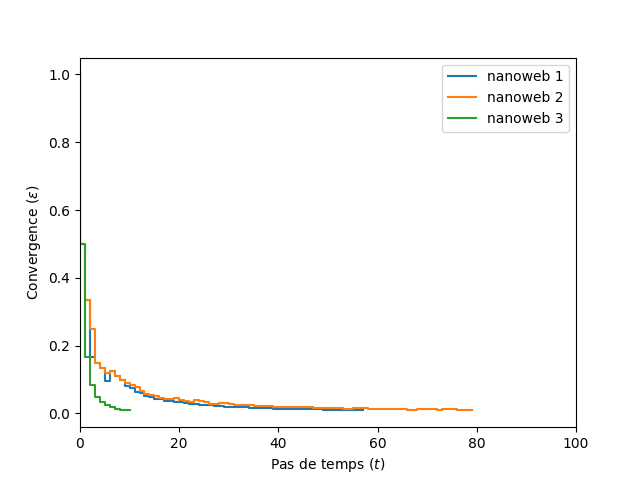
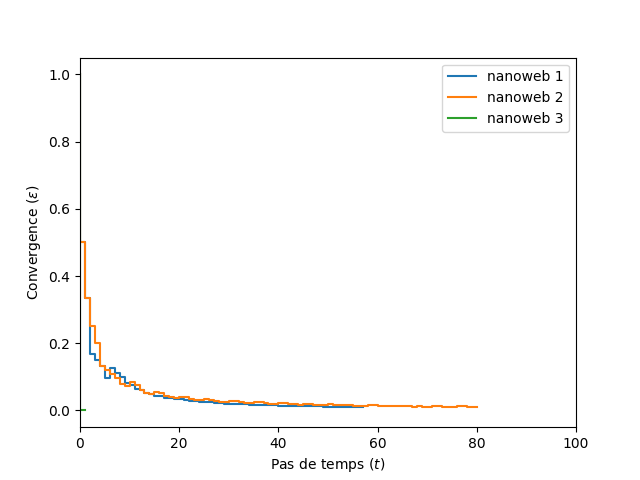
Final version

diff --git a/pagerank/datastructures.py b/pagerank/datastructures.py
@@ -143,31 +143,35 @@ class SimpleWeb:
         trans = self.trans.copy()
         eps = 1
         epsilons = []
-        i = 1
-        while i < n and eps > epsilon:
-            new_trans = trans**2
+        k = 2
+        while k <= n and eps > epsilon:
+            new_trans = np.matmul(trans, self.trans)
             eps = np.linalg.norm(trans - new_trans)
             epsilons.append(eps)
             trans = new_trans
-            i += 1
+            k += 1
         return epsilons
 
     @staticmethod
     def generate(n):
-        """Génère un SimpleWeb ergodique sans auto-référence (ne marche pas).
+        """Génère un SimpleWeb ergodique sans auto-référence.
+
+        Actuellement l'algorithme ne fonctionne pas,
+        certaines des chaînes générées ne sont pas irréductibles.
 
         Paramètres:
             n (int): Nombre de pages web.
         """
-        if n < 4:
-            raise ValueError("Un SimpleWeb ergodique sans auto-référence doit contenir au moins 4 pages")
+        if n < 3:
+            raise ValueError("Un SimpleWeb ergodique sans auto-référence doit contenir au moins 3 pages")
 
         web = SimpleWeb(n)
         pages = list(range(n))
         accessible = [False] * n
+        leavable = [False] * n
 
         for page in pages:
-            # On s'assure que la page est accessible depuis au moins une autre page
+            # On génère un lien entrant si nécessaire
             if not accessible[page]:
                 sources = pages.copy()
                 # Pas d'auto-référence
@@ -178,24 +182,24 @@ class SimpleWeb:
                 # On tire la source au hasard
                 source = random.choice(sources)
                 web.add_arc(source, page)
+                # On met à jour le statut des 2 pages dans le réseau
                 accessible[page] = True
-            web.update_trans()
+                leavable[source] = True
 
-            # On génère un nouveau lien vers une autre page
-            targets = pages.copy()
-            # Pas d'auto-référence
-            targets.remove(page)
-            # On évite les cycles de période 2
-            for ref in web.nodes[page].in_arcs:
-                targets.remove(ref.tail.id)
-            # Le lien ne doit pas déjà exister
-            for link in web.nodes[page].out_arcs:
-                targets.remove(link.head.id)
-            # On tire la cible au hasard
-            if len(targets) == 0:
-                continue
-            target = random.choice(targets)
-            web.add_arc(page, target)
-            accessible[target] = True
+            # On génère un lien sortant si nécessaire
+            if not leavable[page]:
+                targets = pages.copy()
+                # Pas d'auto-référence
+                targets.remove(page)
+                # On évite les cycles de période 2
+                for link in web.nodes[page].in_arcs:
+                    targets.remove(link.tail.id)
+                # On tire la cible au hasard
+                target = random.choice(targets)
+                web.add_arc(page, target)
+                # On met à jour le statut des 2 pages dans le réseau
+                accessible[target] = True
+                leavable[page] = True
 
+        web.update_trans()
         return web

diff --git a/pagerank/simul.py b/pagerank/simul.py
@@ -25,7 +25,7 @@ for nanoweb in nanowebs:
     fred = Kolmogogol(nanoweb)
     fred.trace(interval, 'logs/epsilons_kolmogogol_{}.txt'.format(i))
     # fred.trace(interval, 'logs/epsilons_kolmogogol_uniform_{}.txt'.format(i))
-    init = np.zeros(fred.ord)
+    init = np.zeros(fred.web.n)
     init[init_state] = 1
     # init = np.ones(fred.ord) / fred.ord
     fred.walk(N, epsilon, init)

diff --git a/pagerank/doc/report.md b/pagerank/doc/report.md
@@ -78,7 +78,8 @@ On peut maintenant avec cette algorithme choisir n'importe quelle distribution i
 
 # Puissances de matrices
 
-Pour tout $n \in \mathbb{N}$, la puissance de la matrice de transition $P^n$ représente les probabilités de transition du graphe en $n$ itérations.
+$\forall n \in \mathbb{N}$, la puissance de la matrice de transition $P^n$ représente les probabilités de transition en $n$ itérations.  
+$\lim_{n\to\infty} P^n$ est une matrice dont chaque ligne correspond à la distribution stationnaire quand elle existe.
 
 ## Question 9
 
@@ -86,12 +87,8 @@ On a implémenté dans *`datastructures.SimpleWeb.convergence`* un algorithme pe
 
 $$\epsilon = \left\|P^{t} - P^{t+1}\right\|$$
 
-On dessine alors la courbe d'évolution de la convergence pour les 3 nanowebs avec pour seuil $\epsilon \leq 10^{-10}$ (fig. @fig:epsilons_trans).
+On dessine alors la courbe d'évolution de la convergence pour les 3 nanowebs, avec pour seuil $\epsilon \leq 0.01$ (fig. @fig:epsilons_trans).
 
 ![Évolution de la convergence des puissances de $P$](img/epsilons_trans.png){#fig:epsilons_trans width=75%}
 
-On constate que les 3 nanowebs convergent avec une progression très similaire en exactement 7 itérations, à partir de $P^8$, ce qui est bien plus rapide que la convergence de la distribution de probabilités, malgré la très petite valeur du seuil de convergence.
-
-# Génération de Webs
-
-## Question 10
+Cette fois-ci, en plus du nanoweb 1, on a aussi le nanoweb 3 qui ne converge pas, ce qui nous paraît cohérent puisqu'il existe une sous-chaîne périodique (les pages $\{4,5\}$). On constate aussi que le nanoweb 2 met plus de temps à converger.
